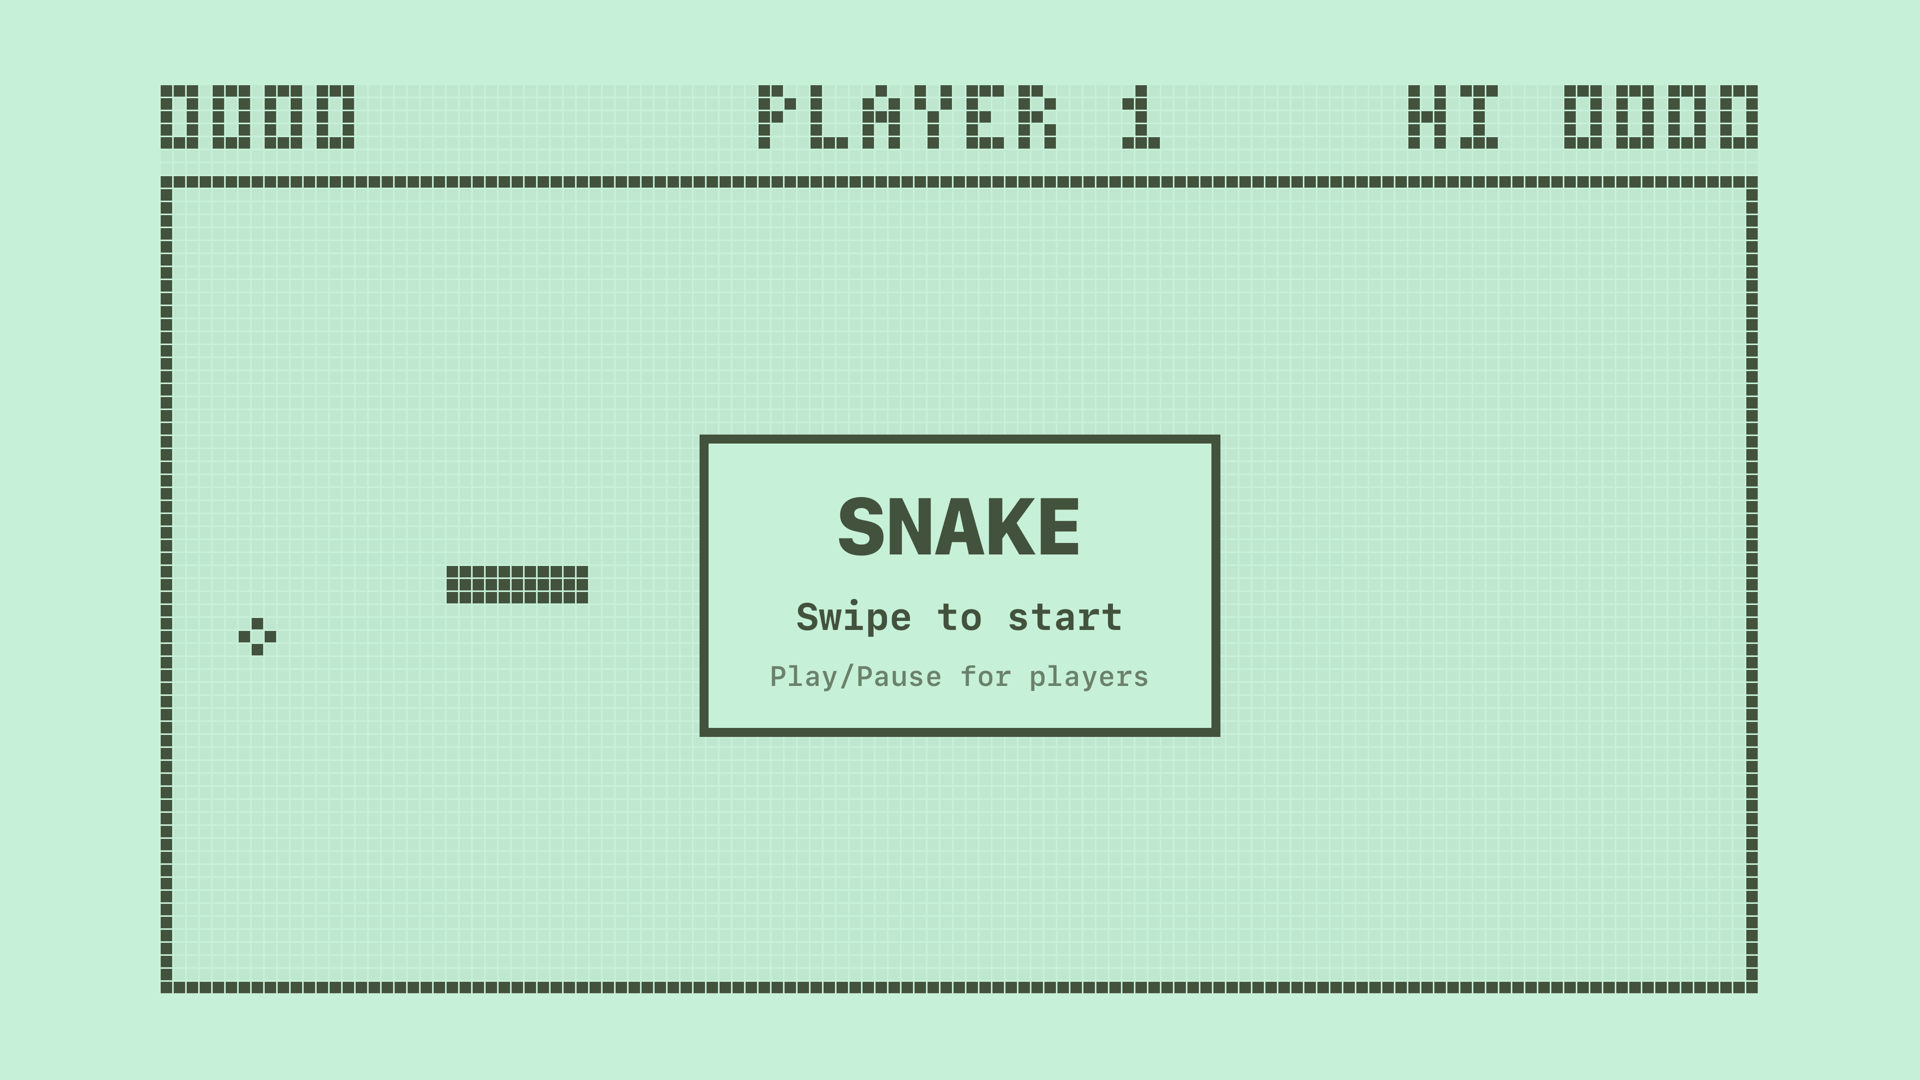
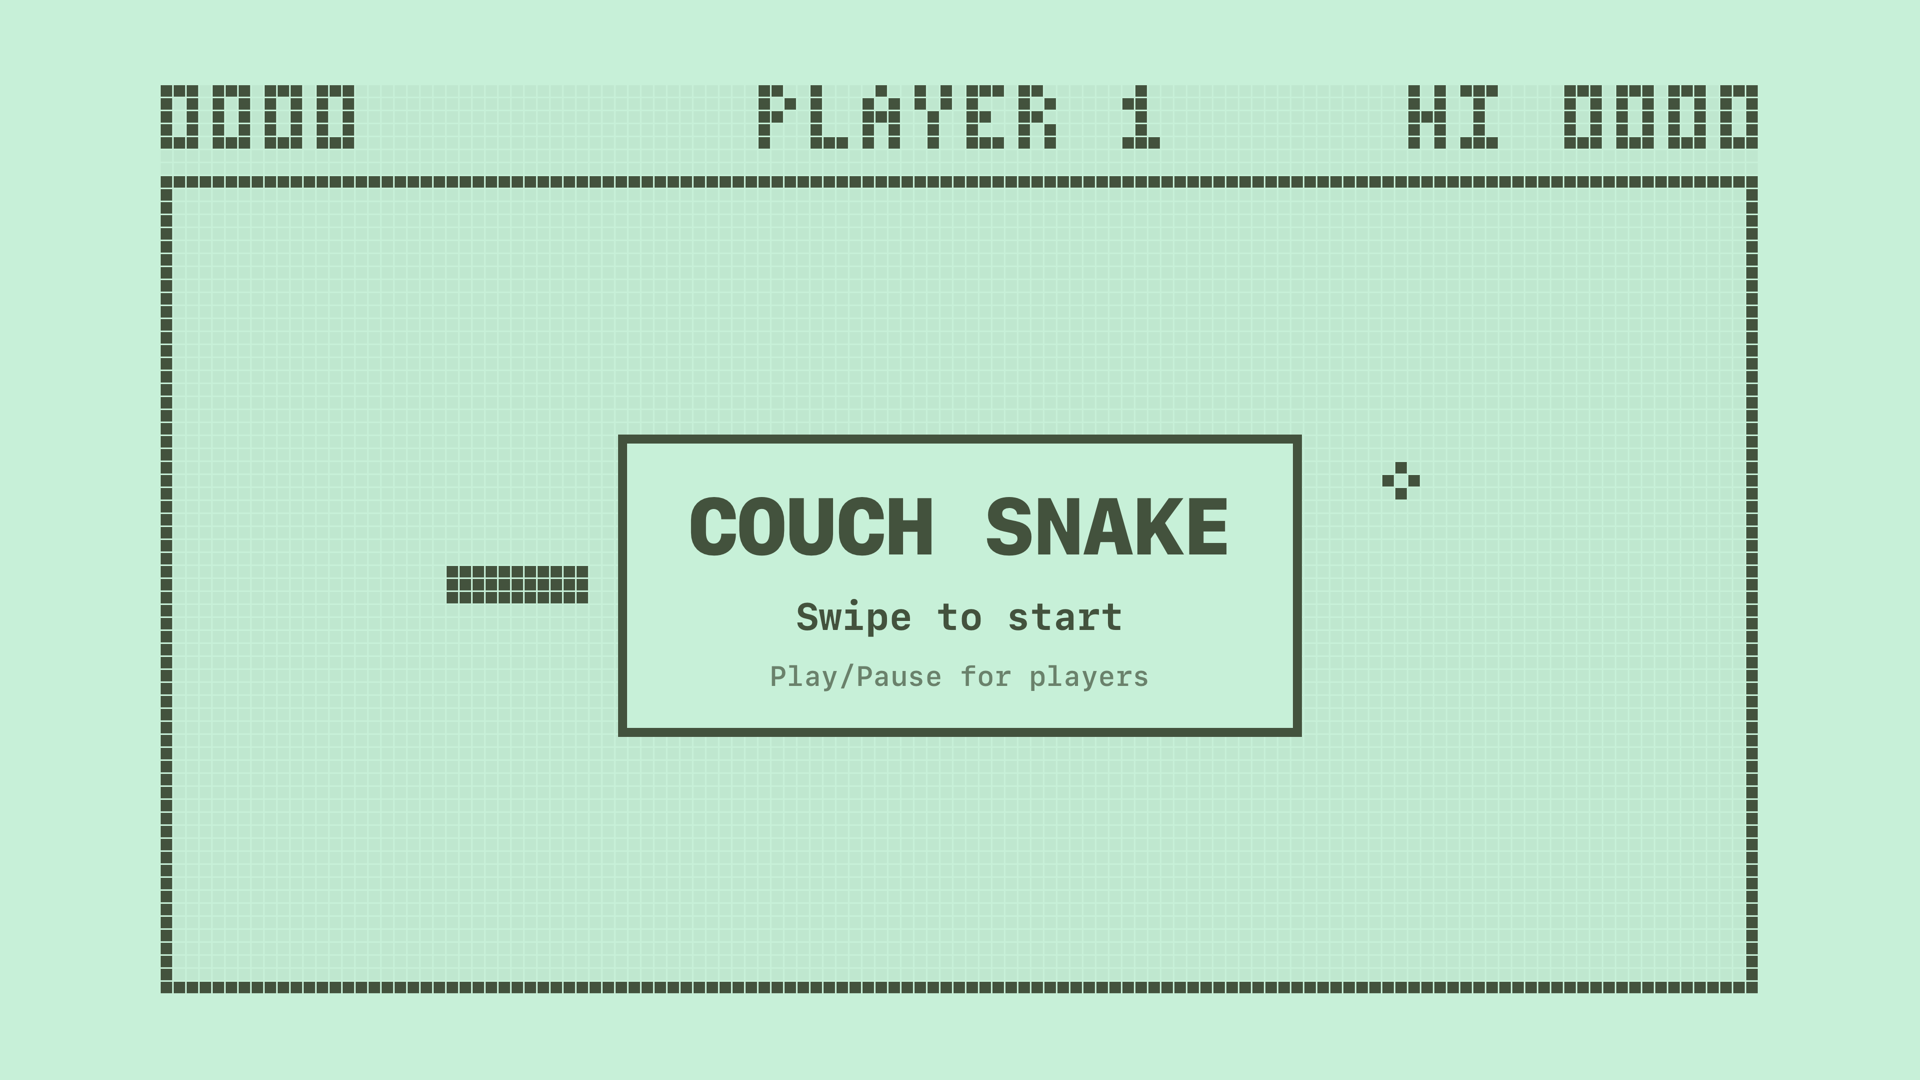
Rename app to Couch Snake

Changed region(s): [[0.3125, 0.3972, 0.6875, 0.7028], [0.7188, 0.4278, 0.75, 0.4583], [0.125, 0.5806, 0.1562, 0.6111]]

diff --git a/Snake/GameView.swift b/Snake/GameView.swift
@@ -59,7 +59,7 @@ struct GameView: View {
   @ViewBuilder
   private var message: some View {
     switch game.state {
-    case .ready: MessageBox(title: "SNAKE", detail: "Swipe to start", hint: "Play/Pause for players", background: screenColor)
+    case .ready: MessageBox(title: "COUCH SNAKE", detail: "Swipe to start", hint: "Play/Pause for players", background: screenColor)
     case .paused: MessageBox(title: "PAUSED", detail: "Click to continue", background: screenColor)
     case .over: MessageBox(title: "GAME OVER", detail: "Click to play again", hint: "Play/Pause for players", background: screenColor)
     case .playing: EmptyView()

diff --git a/scripts/render-banner.swift b/scripts/render-banner.swift
@@ -8,7 +8,7 @@
 import AppKit
 import SwiftUI
 
-let name = "Snake"
+let name = "Couch Snake"
 let tagline = "The classic phone game,\nfull screen on your Apple TV."
 let chips = ["Swipe to steer", "LCD pixels", "Through the walls"]
 let size = CGSize(width: 1280, height: 560)

diff --git a/README.md b/README.md
@@ -1,12 +1,12 @@
-<img src="docs/banner.png" alt="Snake, the classic phone game, full screen on your Apple TV" />
+<img src="docs/banner.png" alt="Couch Snake, the classic phone game, full screen on your Apple TV" />
 
-Snake is the classic snake game from old mobile phones, rebuilt for the Apple TV. It fills the TV with a pale green LCD screen, and you steer the snake by swiping on the Siri Remote.
+Couch Snake is the classic snake game from old mobile phones, rebuilt for the Apple TV. It fills the TV with a pale green LCD screen, and you steer the snake by swiping on the Siri Remote.
 
 Everything on screen is made of chunky dot-matrix pixels, the score included. The snake goes through the walls and comes out the other side, so the only way to lose is to bite yourself.
 
-Read the announcement and watch the 30-second demo on my blog: [I built Snake, the classic phone game for the Apple TV](https://flaviocopes.com/snake/).
+Read the announcement and watch the 30-second demo on my blog: [I built Couch Snake, the classic phone game for the Apple TV](https://flaviocopes.com/couch-snake/).
 
-[![Watch the 30-second Snake demo](docs/showreel-poster.jpg)](https://flaviocopes.com/snake/)
+[![Watch the 30-second Couch Snake demo](docs/showreel-poster.jpg)](https://flaviocopes.com/couch-snake/)
 
 ## Features
 
@@ -20,7 +20,7 @@ Read the announcement and watch the 30-second demo on my blog: [I built Snake, t
 - Your player name shows above the board, and your best score shows top right as `HI`
 - The game pauses when you leave the app
 
-<img src="docs/screenshot.png" alt="Snake on the Apple TV, with the snake, the food and the start message on a green LCD screen" />
+<img src="docs/screenshot.png" alt="Couch Snake on the Apple TV, with the snake, the food and the start message on a green LCD screen" />
 
 ## How to play
 
@@ -31,9 +31,9 @@ Read the announcement and watch the 30-second demo on my blog: [I built Snake, t
 
 ## Install it on your Apple TV
 
-The Apple TV can't install apps from a download, and Snake isn't on the App Store. You install it from Xcode on your own Apple TV, which takes a few minutes the first time:
+The Apple TV can't install apps from a download, and Couch Snake isn't on the App Store. You install it from Xcode on your own Apple TV, which takes a few minutes the first time:
 
-1. Download [Snake-1.1.0-source.zip](https://github.com/flaviocopes/snake/releases/download/v1.1.0/Snake-1.1.0-source.zip) and unzip it. Put the Mac and the Apple TV on the same network. On the Apple TV, open **Settings → Remotes and Devices → Remote App and Devices**.
+1. Download [Couch-Snake-1.2.0-source.zip](https://github.com/flaviocopes/couch-snake/releases/download/v1.2.0/Couch-Snake-1.2.0-source.zip) and unzip it. Put the Mac and the Apple TV on the same network. On the Apple TV, open **Settings → Remotes and Devices → Remote App and Devices**.
 2. In Xcode, open **Window → Devices and Simulators**, click **Pair** next to your Apple TV, and type the code it shows.
 3. Open `Snake.xcodeproj`, choose the `Snake` scheme and your Apple TV, and set your own team under **Signing & Capabilities**.
 4. Press `⌘R`.
@@ -81,7 +81,7 @@ The screen is one SwiftUI `Canvas` that draws LCD pixels. Each board cell is 4 p
 
 ## Legal
 
-Snake is an independent project. It isn't affiliated with, endorsed by or sponsored by Nokia or Apple. Every pixel is drawn in code, and there are no graphics, sounds or fonts from other games in it.
+Couch Snake is an independent project. It isn't affiliated with, endorsed by or sponsored by Nokia or Apple. Every pixel is drawn in code, and there are no graphics, sounds or fonts from other games in it.
 
 Apple, Apple TV, Siri and tvOS are trademarks of Apple Inc., registered in the U.S. and other countries and regions.
 

diff --git a/AGENTS.md b/AGENTS.md
@@ -1,4 +1,4 @@
-# Snake
+# Couch Snake
 
 The classic snake game from old mobile phones, full screen on Apple TV. A SwiftUI tvOS app with no dependencies.
 
